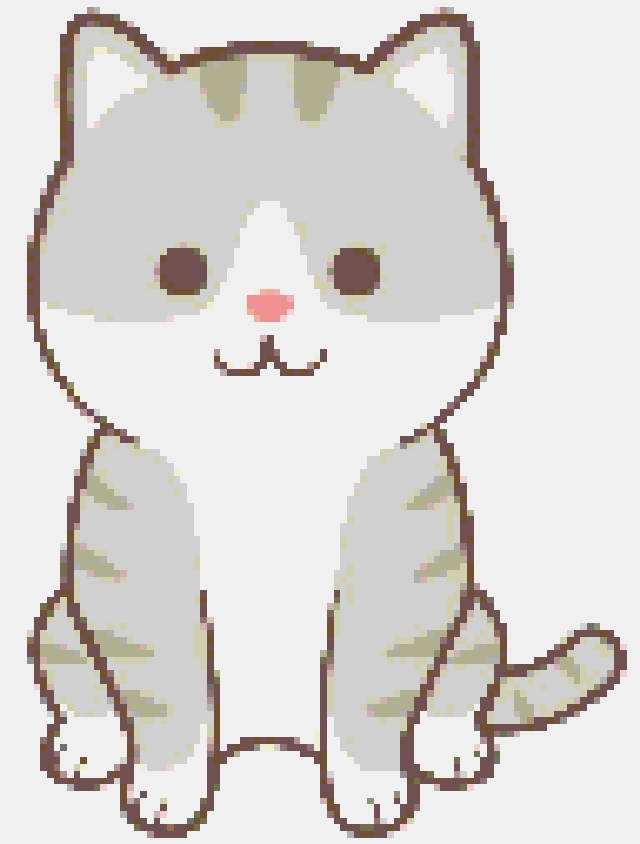
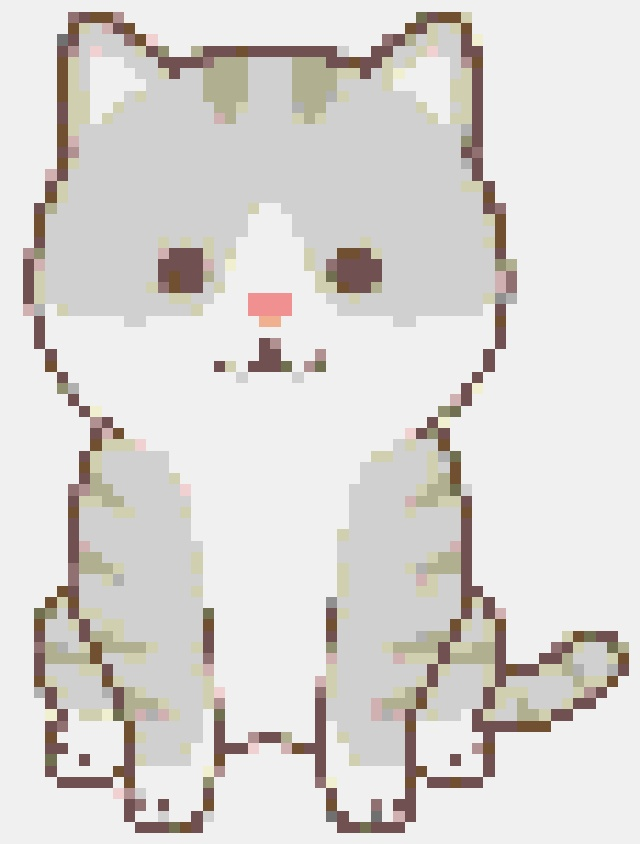
修正2　透過未実装

diff --git a/img_change.py b/img_change.py
@@ -1,56 +1,83 @@
+
+# # decreaseColor関数:画像の各ピクセルの色を特定の範囲ごとに変更して減色処理を行う。各色の範囲は32ごとに設定されている。
+# # 例えば、0から32の範囲の色は16に、32から64の範囲の色は48に変更されます。
+# def decreaseColor(img):
+#     # dst:Destination（宛先）の略。処理の結果を格納
+#     dst = img.copy()
+
+#     # 各色の範囲ごとに値を変更
+#     for i in range(1, 8):
+#         idx = np.where((32 * i <= img) & (32 * (i + 1) > img))
+#         dst[idx] = 32 * i + 16
+    
+#     # 以下の計算と同意
+#         # idx = np.where((0<=img) & (32>img))
+#         # dst[idx] = 16
+#         # idx = np.where((32<=img) & (64>img))
+#         # dst[idx] = 48
+#         # idx = np.where((64<=img) & (96>img))
+#         # dst[idx] = 80
+#         # idx = np.where((96<=img) & (128>img))
+#         # dst[idx] = 112
+#         # idx = np.where((128<=img) & (160>img))
+#         # dst[idx] = 144
+#         # idx = np.where((160<=img) & (192>img))
+#         # dst[idx] = 176
+#         # idx = np.where((192<=img) & (224>img))
+#         # dst[idx] = 208
+#         # idx = np.where((224<=img) & (256>=img))
+#         # dst[idx] = 240
+
+#     return dst
+
+
 import cv2
 import numpy as np
-
-# mosaic 関数では、まず画像を縮小し、その後に cv2.INTER_NEAREST を用いて最近傍補間法で再拡大。
-# これにより、モザイク処理が行われる。alpha パラメータは縮小率を制御する。
+ # mosaic 関数では、まず画像を縮小し、その後に cv2.INTER_NEAREST を用いて最近傍補間法で再拡大。
+ # これにより、モザイク処理が行われる。alpha パラメータは縮小率を制御する。
 def mosaic(img, alpha):
     h, w, ch = img.shape
-
+    
     # 画像を縮小
-    img = cv2.resize(img,(int(w*alpha), int(h*alpha)))
+    img = cv2.resize(img, (int(w * alpha), int(h * alpha)))
 
-    # 縮小した画像を再拡大（モザイク処理）
-    img = cv2.resize(img,(w, h), interpolation=cv2.INTER_NEAREST)
-
+     # 縮小した画像を再拡大（モザイク処理）
+    img = cv2.resize(img, (w, h), interpolation=cv2.INTER_NEAREST)
     return img
+
 
 # decreaseColor関数:画像の各ピクセルの色を特定の範囲ごとに変更して減色処理を行う。各色の範囲は32ごとに設定されている。
 # 例えば、0から32の範囲の色は16に、32から64の範囲の色は48に変更されます。
-def decreaseColor(img):
-    # dst:Destination（宛先）の略。処理の結果を格納
-    dst = img.copy()
+# def decreaseColor(img):
+#     # dst:Destination（宛先）の略。処理の結果を格納
+#     dst = img.copy()
 
-    # 各色の範囲ごとに値を変更
+#     # 各色の範囲ごとに値を変更
+#     for i in range(1, 8):
+#         idx = np.where((32 * i <= img) & (32 * (i + 1) > img))
+#         dst[idx] = 32 * i + 16
+    
+#     # 以下の計算と同意
+#         # idx = np.where((0<=img) & (32>img))
+#         # dst[idx] = 16
+#         # idx = np.where((32<=img) & (64>img))
+#         # dst[idx] = 48
+#         # idx = np.where((64<=img) & (96>img))
+#         # dst[idx] = 80
+#         # idx = np.where((96<=img) & (128>img))
+#         # dst[idx] = 112
+#         # idx = np.where((128<=img) & (160>img))
+#         # dst[idx] = 144
+#         # idx = np.where((160<=img) & (192>img))
+#         # dst[idx] = 176
+#         # idx = np.where((192<=img) & (224>img))
+#         # dst[idx] = 208
+#         # idx = np.where((224<=img) & (256>=img))
+#         # dst[idx] = 
+
+def decreaseColor(img):
+    dst = img.copy()
     for i in range(1, 8):
         idx = np.where((32 * i <= img) & (32 * (i + 1) > img))
         dst[idx] = 32 * i + 16
-    
-    # 以下の計算と同意
-        # idx = np.where((0<=img) & (32>img))
-        # dst[idx] = 16
-        # idx = np.where((32<=img) & (64>img))
-        # dst[idx] = 48
-        # idx = np.where((64<=img) & (96>img))
-        # dst[idx] = 80
-        # idx = np.where((96<=img) & (128>img))
-        # dst[idx] = 112
-        # idx = np.where((128<=img) & (160>img))
-        # dst[idx] = 144
-        # idx = np.where((160<=img) & (192>img))
-        # dst[idx] = 176
-        # idx = np.where((192<=img) & (224>img))
-        # dst[idx] = 208
-        # idx = np.where((224<=img) & (256>=img))
-        # dst[idx] = 240
-
     return dst
-
-# 画像のパスを絶対パスで指定する
-img = cv2.imread("img/himawari.jpg")
-
-img2 = mosaic(img, 0.2)
-
-img3 = decreaseColor(img2)
- 
-output_path = "img/himawari_changepx.jpg"
-cv2.imwrite(output_path, img3)

diff --git a/app.py b/app.py
@@ -1,26 +1,13 @@
-# app.py
 from flask import Flask, render_template, request, send_from_directory
 import cv2
 import os
 import numpy as np
 from make_transparent import make_transparent
+from img_change import mosaic, decreaseColor
 
 app = Flask(__name__)
 UPLOAD_FOLDER = 'uploads'
 app.config['UPLOAD_FOLDER'] = UPLOAD_FOLDER
-
-def mosaic(img, alpha):
-    h, w, ch = img.shape
-    img = cv2.resize(img, (int(w * alpha), int(h * alpha)))
-    img = cv2.resize(img, (w, h), interpolation=cv2.INTER_NEAREST)
-    return img
-
-def decreaseColor(img):
-    dst = img.copy()
-    for i in range(1, 8):
-        idx = np.where((32 * i <= img) & (32 * (i + 1) > img))
-        dst[idx] = 32 * i + 16
-    return dst
 
 @app.route('/')
 def index():
@@ -45,36 +32,20 @@ def upload():
         img = cv2.imread(filename)
         pixel_size = int(request.form['pixel_size'])
         alpha = pixel_size / 100.0
-        mosaic_img = mosaic(img,alpha)
-        dc_img = decreaseColor(mosaic_img)
-
 
         # Check file format and perform appropriate processing
         if request.form['file_format'] == 'jpg':
-            result_filename = os.path.join(app.config['UPLOAD_FOLDER'], 'result_image.jpg')
-            cv2.imwrite(result_filename, dc_img, [cv2.IMWRITE_JPEG_QUALITY, 95])
+            mosaic_img = mosaic(img, alpha)
+            dc_img = decreaseColor(mosaic_img)
         elif request.form['file_format'] == 'png':
-            dc_img_with_alpha = make_transparent(dc_img, (255, 255, 255))
-            result_filename = os.path.join(app.config['UPLOAD_FOLDER'], 'result_image.png')
-            cv2.imwrite(result_filename,  dc_img_with_alpha, [cv2.IMWRITE_PNG_COMPRESSION, 9])
+            img_with_alpha = make_transparent(img, (255, 255, 255))
+            mosaic_img = mosaic(img_with_alpha, alpha)
+            dc_img = decreaseColor(mosaic_img)
 
+        result_filename = os.path.join(app.config['UPLOAD_FOLDER'], 'result_image.' + request.form['file_format'])
+        cv2.imwrite(result_filename, dc_img)
 
-        # Call make_transparent function from make_transparent.py
-        # img_transparent = make_transparent(img, target_color=(255, 255, 255))
-
-        # # Pixel processing
-        # mosaic_img = mosaic(img_transparent,alpha)
-        # dc_img = decreaseColor(mosaic_img)
-
-        # # Save the processed image
-        # result_filename = os.path.join(app.config['UPLOAD_FOLDER'], 'result_image.' + request.form['file_format'])
-        # if request.form['file_format'] == 'jpg':
-        #     cv2.imwrite(result_filename, dc_img, [cv2.IMWRITE_JPEG_QUALITY, 95])  # JPG形式で保存
-        # elif request.form['file_format'] == 'png':
-        #     cv2.imwrite(result_filename, dc_img, [cv2.IMWRITE_PNG_COMPRESSION, 9])  # PNG形式で保存
-        # result_filename = os.path.join(app.config['UPLOAD_FOLDER'], 'result_image.png')
-        # cv2.imwrite(result_filename, dc_img, [cv2.IMWRITE_PNG_COMPRESSION, 9])
         return send_from_directory(app.config['UPLOAD_FOLDER'], 'result_image.' + request.form['file_format'])
 
 if __name__ == '__main__':
-    app.run(debug=True,use_debugger=True)
+    app.run(debug=True)

diff --git a/make_transparent.py b/make_transparent.py
@@ -77,7 +77,7 @@ def make_transparent(img, target_color):
     target_color_bgr = np.array(target_color[::-1])
 
     # 白色部分に対応するマスク画像を生成
-    mask = np.all(img[:, :, :3] == target_color_bgr, axis=-1)
+    mask = np.all(img[:, :, :3] == [255, 255, 255], axis=-1)
 
     # 元画像をBGR形式からBGRA形式に変換
     img_with_alpha = cv2.cvtColor(img, cv2.COLOR_BGR2BGRA)
